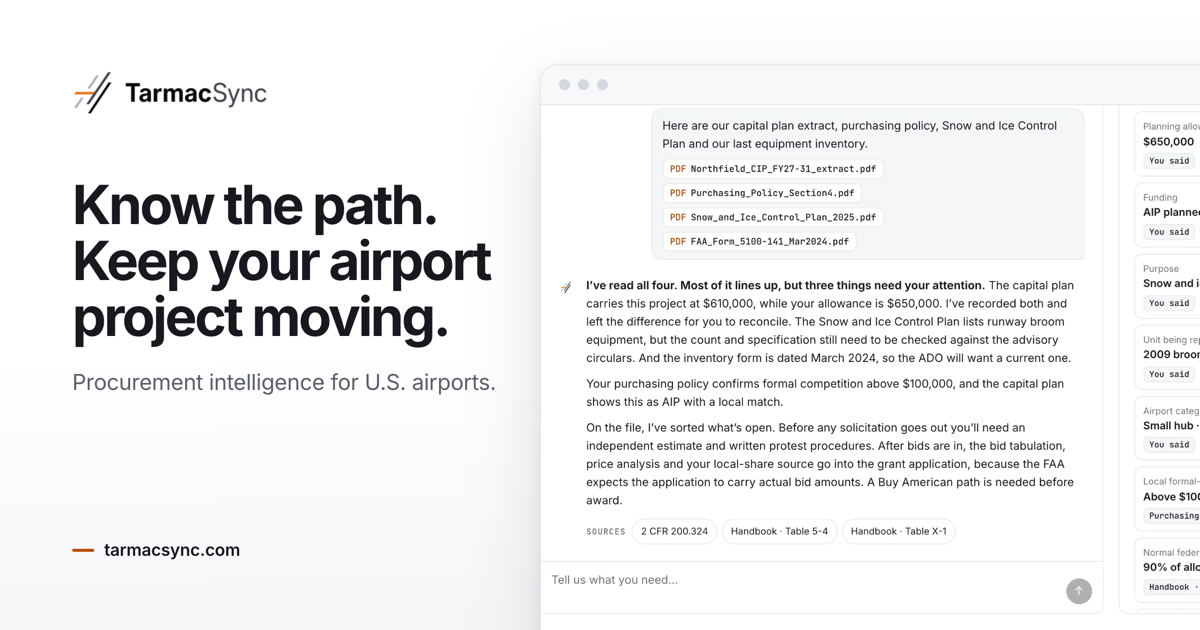
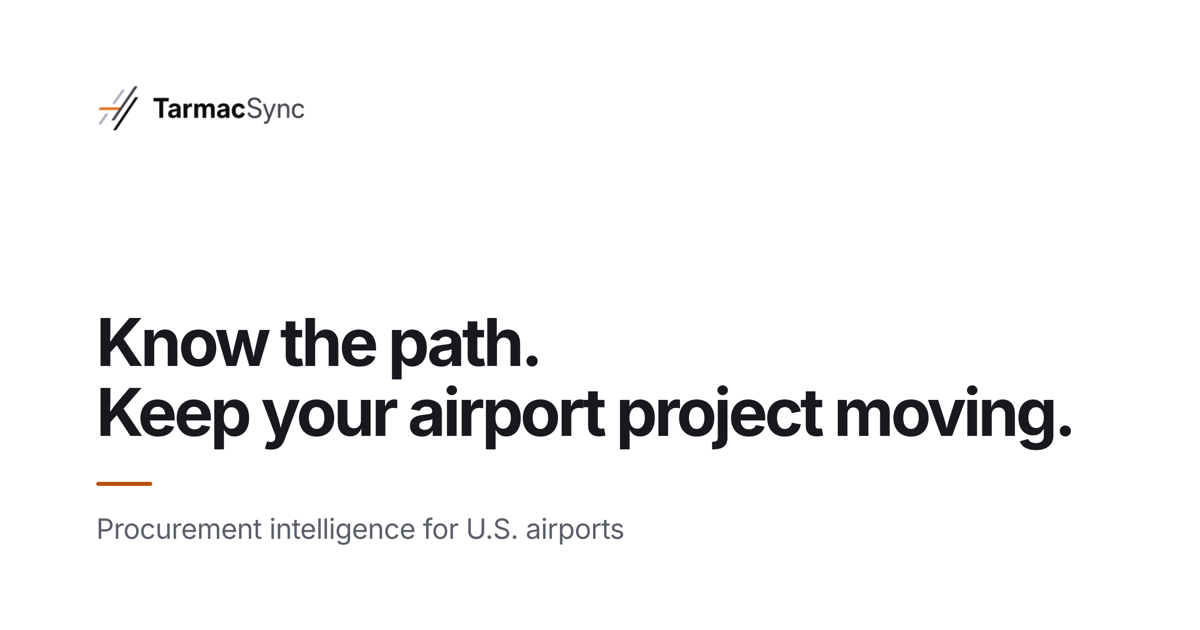
Share image: minimal typographic card (owner: too busy)
Drops the product screenshot. Logo, the homepage headline on two lines, a short orange rule and
one subtitle, with 96px margins. Alt text on every page updated to match.

Claude-Session: https://claude.ai/code/session_01MfuQwQyxp24rhEmT3S97r6

diff --git a/cooperative-contracts-airports.html b/cooperative-contracts-airports.html
@@ -12,7 +12,7 @@
   <meta property="og:image" content="https://www.tarmacsync.com/assets/og-share.png">
   <meta property="og:image:width" content="1200">
   <meta property="og:image:height" content="630">
-  <meta property="og:image:alt" content="TarmacSync reading an airport's capital plan, purchasing policy and equipment records, and flagging that the capital plan carries $610,000 while the allowance is $650,000.">
+  <meta property="og:image:alt" content="TarmacSync. Know the path. Keep your airport project moving. Procurement intelligence for U.S. airports.">
   <meta name="twitter:card" content="summary_large_image">
   <meta name="twitter:title" content="Cooperative Contracts for Airports | TarmacSync">
   <meta name="twitter:description" content="Find cooperative purchasing contracts for U.S. airports. TarmacSync screens major consortiums against your purchase scope, funding source, and airport policy.">

diff --git a/resources.html b/resources.html
@@ -12,7 +12,7 @@
   <meta property="og:image" content="https://www.tarmacsync.com/assets/og-share.png">
   <meta property="og:image:width" content="1200">
   <meta property="og:image:height" content="630">
-  <meta property="og:image:alt" content="TarmacSync reading an airport's capital plan, purchasing policy and equipment records, and flagging that the capital plan carries $610,000 while the allowance is $650,000.">
+  <meta property="og:image:alt" content="TarmacSync. Know the path. Keep your airport project moving. Procurement intelligence for U.S. airports.">
   <meta name="twitter:card" content="summary_large_image">
   <meta name="twitter:title" content="Airport Procurement Resources | TarmacSync">
   <meta name="twitter:description" content="Key resources for U.S. airport procurement professionals. FAA guidance, AIP Handbook, 2 CFR Part 200, Grant Assurances, and cooperative purchasing references.">

diff --git a/data-processing-addendum.html b/data-processing-addendum.html
@@ -12,7 +12,7 @@
   <meta property="og:image" content="https://www.tarmacsync.com/assets/og-share.png">
   <meta property="og:image:width" content="1200">
   <meta property="og:image:height" content="630">
-  <meta property="og:image:alt" content="TarmacSync reading an airport's capital plan, purchasing policy and equipment records, and flagging that the capital plan carries $610,000 while the allowance is $650,000.">
+  <meta property="og:image:alt" content="TarmacSync. Know the path. Keep your airport project moving. Procurement intelligence for U.S. airports.">
   <meta name="twitter:card" content="summary_large_image">
   <meta name="twitter:title" content="Data Processing Addendum | TarmacSync">
   <meta name="twitter:description" content="Data Processing Addendum for TarmacSync airport customers. Covers subprocessors, data handling, security, and cross-border transfer commitments.">

diff --git a/airport-procurement-policy.html b/airport-procurement-policy.html
@@ -12,7 +12,7 @@
   <meta property="og:image" content="https://www.tarmacsync.com/assets/og-share.png">
   <meta property="og:image:width" content="1200">
   <meta property="og:image:height" content="630">
-  <meta property="og:image:alt" content="TarmacSync reading an airport's capital plan, purchasing policy and equipment records, and flagging that the capital plan carries $610,000 while the allowance is $650,000.">
+  <meta property="og:image:alt" content="TarmacSync. Know the path. Keep your airport project moving. Procurement intelligence for U.S. airports.">
   <meta name="twitter:card" content="summary_large_image">
   <meta name="twitter:title" content="Airport Procurement Policy | TarmacSync">
   <meta name="twitter:description" content="How airport teams can organize procurement-policy questions, funding context, existing contracts, and next steps before a process begins.">

diff --git a/government-customer-addendum.html b/government-customer-addendum.html
@@ -12,7 +12,7 @@
   <meta property="og:image" content="https://www.tarmacsync.com/assets/og-share.png">
   <meta property="og:image:width" content="1200">
   <meta property="og:image:height" content="630">
-  <meta property="og:image:alt" content="TarmacSync reading an airport's capital plan, purchasing policy and equipment records, and flagging that the capital plan carries $610,000 while the allowance is $650,000.">
+  <meta property="og:image:alt" content="TarmacSync. Know the path. Keep your airport project moving. Procurement intelligence for U.S. airports.">
   <meta name="twitter:card" content="summary_large_image">
   <meta name="twitter:title" content="Government Customer Addendum | TarmacSync">
   <meta name="twitter:description" content="Government Customer Addendum to TarmacSync Terms of Service for U.S. airport, public-agency, and government customers.">

diff --git a/book-a-call.html b/book-a-call.html
@@ -12,7 +12,7 @@
   <meta property="og:image" content="https://www.tarmacsync.com/assets/og-share.png">
   <meta property="og:image:width" content="1200">
   <meta property="og:image:height" content="630">
-  <meta property="og:image:alt" content="TarmacSync reading an airport's capital plan, purchasing policy and equipment records, and flagging that the capital plan carries $610,000 while the allowance is $650,000.">
+  <meta property="og:image:alt" content="TarmacSync. Know the path. Keep your airport project moving. Procurement intelligence for U.S. airports.">
   <meta name="twitter:card" content="summary_large_image">
   <meta name="twitter:title" content="Book a Fit Conversation | TarmacSync">
   <meta name="twitter:description" content="Choose a time to discuss your airport's procurement workflow, the work ahead, and whether TarmacSync is a practical fit.">

diff --git a/accessibility.html b/accessibility.html
@@ -16,7 +16,7 @@
   <meta property="og:image" content="https://www.tarmacsync.com/assets/og-share.png">
   <meta property="og:image:width" content="1200">
   <meta property="og:image:height" content="630">
-  <meta property="og:image:alt" content="TarmacSync reading an airport's capital plan, purchasing policy and equipment records, and flagging that the capital plan carries $610,000 while the allowance is $650,000.">
+  <meta property="og:image:alt" content="TarmacSync. Know the path. Keep your airport project moving. Procurement intelligence for U.S. airports.">
   <meta name="twitter:card" content="summary_large_image">
   <meta name="twitter:title" content="Accessibility Statement | TarmacSync">
   <meta name="twitter:description" content="Read TarmacSync's accessibility statement and contact information for accessibility questions about this site.">

diff --git a/non-discrimination.html b/non-discrimination.html
@@ -16,7 +16,7 @@
   <meta property="og:image" content="https://www.tarmacsync.com/assets/og-share.png">
   <meta property="og:image:width" content="1200">
   <meta property="og:image:height" content="630">
-  <meta property="og:image:alt" content="TarmacSync reading an airport's capital plan, purchasing policy and equipment records, and flagging that the capital plan carries $610,000 while the allowance is $650,000.">
+  <meta property="og:image:alt" content="TarmacSync. Know the path. Keep your airport project moving. Procurement intelligence for U.S. airports.">
   <meta name="twitter:card" content="summary_large_image">
   <meta name="twitter:title" content="Non-Discrimination Statement | TarmacSync">
   <meta name="twitter:description" content="Read TarmacSync's non-discrimination statement and the contact route for questions about this site.">

diff --git a/privacy.html b/privacy.html
@@ -16,7 +16,7 @@
   <meta property="og:image" content="https://www.tarmacsync.com/assets/og-share.png">
   <meta property="og:image:width" content="1200">
   <meta property="og:image:height" content="630">
-  <meta property="og:image:alt" content="TarmacSync reading an airport's capital plan, purchasing policy and equipment records, and flagging that the capital plan carries $610,000 while the allowance is $650,000.">
+  <meta property="og:image:alt" content="TarmacSync. Know the path. Keep your airport project moving. Procurement intelligence for U.S. airports.">
   <meta name="twitter:card" content="summary_large_image">
   <meta name="twitter:title" content="Privacy Policy | TarmacSync">
   <meta name="twitter:description" content="How TarmacSync collects, uses, protects, and gives you control over personal information.">

diff --git a/terms.html b/terms.html
@@ -16,7 +16,7 @@
   <meta property="og:image" content="https://www.tarmacsync.com/assets/og-share.png">
   <meta property="og:image:width" content="1200">
   <meta property="og:image:height" content="630">
-  <meta property="og:image:alt" content="TarmacSync reading an airport's capital plan, purchasing policy and equipment records, and flagging that the capital plan carries $610,000 while the allowance is $650,000.">
+  <meta property="og:image:alt" content="TarmacSync. Know the path. Keep your airport project moving. Procurement intelligence for U.S. airports.">
   <meta name="twitter:card" content="summary_large_image">
   <meta name="twitter:title" content="Terms of Service | TarmacSync">
   <meta name="twitter:description" content="Terms for using the TarmacSync website, service, demonstrations, and related materials.">

diff --git a/index.html b/index.html
@@ -23,7 +23,7 @@
   <meta property="og:image" content="https://www.tarmacsync.com/assets/og-share.png">
   <meta property="og:image:width" content="1200">
   <meta property="og:image:height" content="630">
-  <meta property="og:image:alt" content="TarmacSync reading an airport's capital plan, purchasing policy and equipment records, and flagging that the capital plan carries $610,000 while the allowance is $650,000.">
+  <meta property="og:image:alt" content="TarmacSync. Know the path. Keep your airport project moving. Procurement intelligence for U.S. airports.">
   <meta property="og:image:alt" content="TarmacSync - Airport Procurement Intelligence">
   <meta name="twitter:card" content="summary_large_image">
   <meta name="twitter:title" content="Procurement Intelligence for U.S. Airports | TarmacSync">

diff --git a/pricing.html b/pricing.html
@@ -14,7 +14,7 @@
   <meta property="og:image" content="https://www.tarmacsync.com/assets/og-share.png">
   <meta property="og:image:width" content="1200">
   <meta property="og:image:height" content="630">
-  <meta property="og:image:alt" content="TarmacSync reading an airport's capital plan, purchasing policy and equipment records, and flagging that the capital plan carries $610,000 while the allowance is $650,000.">
+  <meta property="og:image:alt" content="TarmacSync. Know the path. Keep your airport project moving. Procurement intelligence for U.S. airports.">
   <meta property="og:image:alt" content="TarmacSync - Airport Procurement Intelligence">
   <meta name="twitter:card" content="summary_large_image">
   <meta name="twitter:title" content="Pricing for U.S. Airports | TarmacSync">
